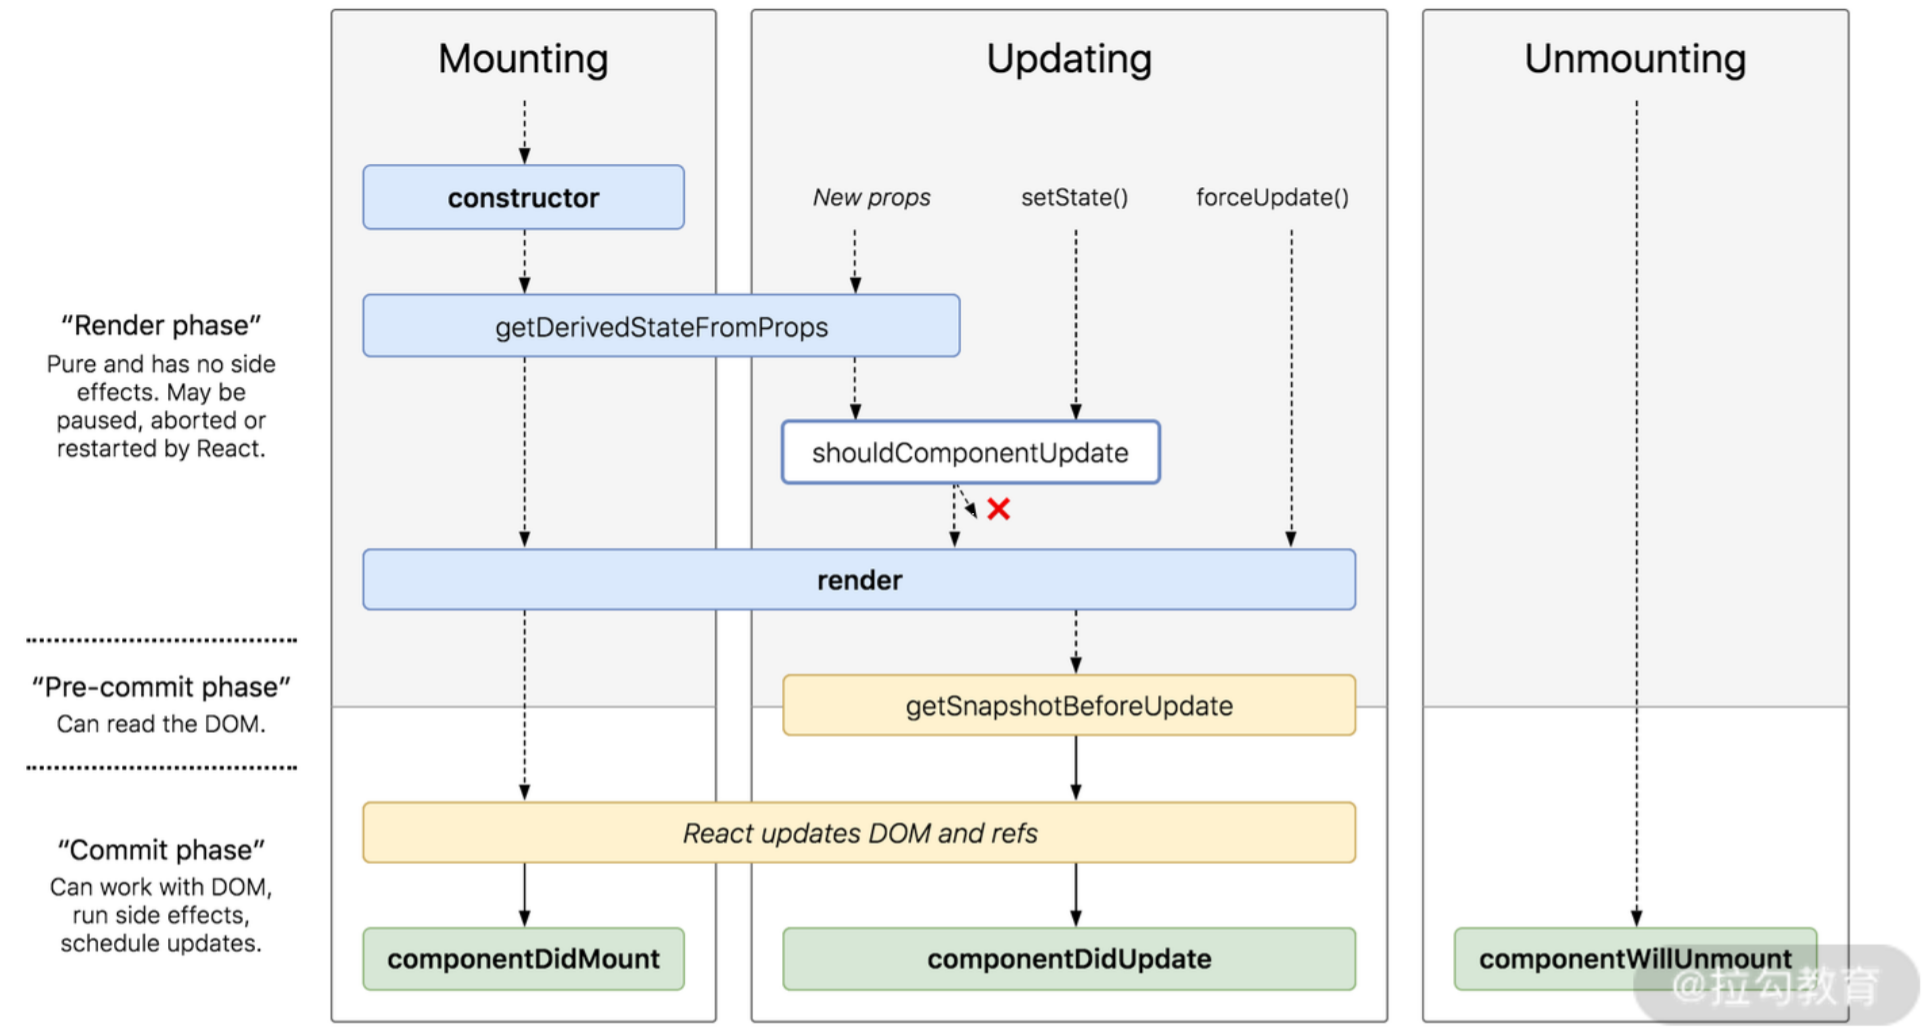
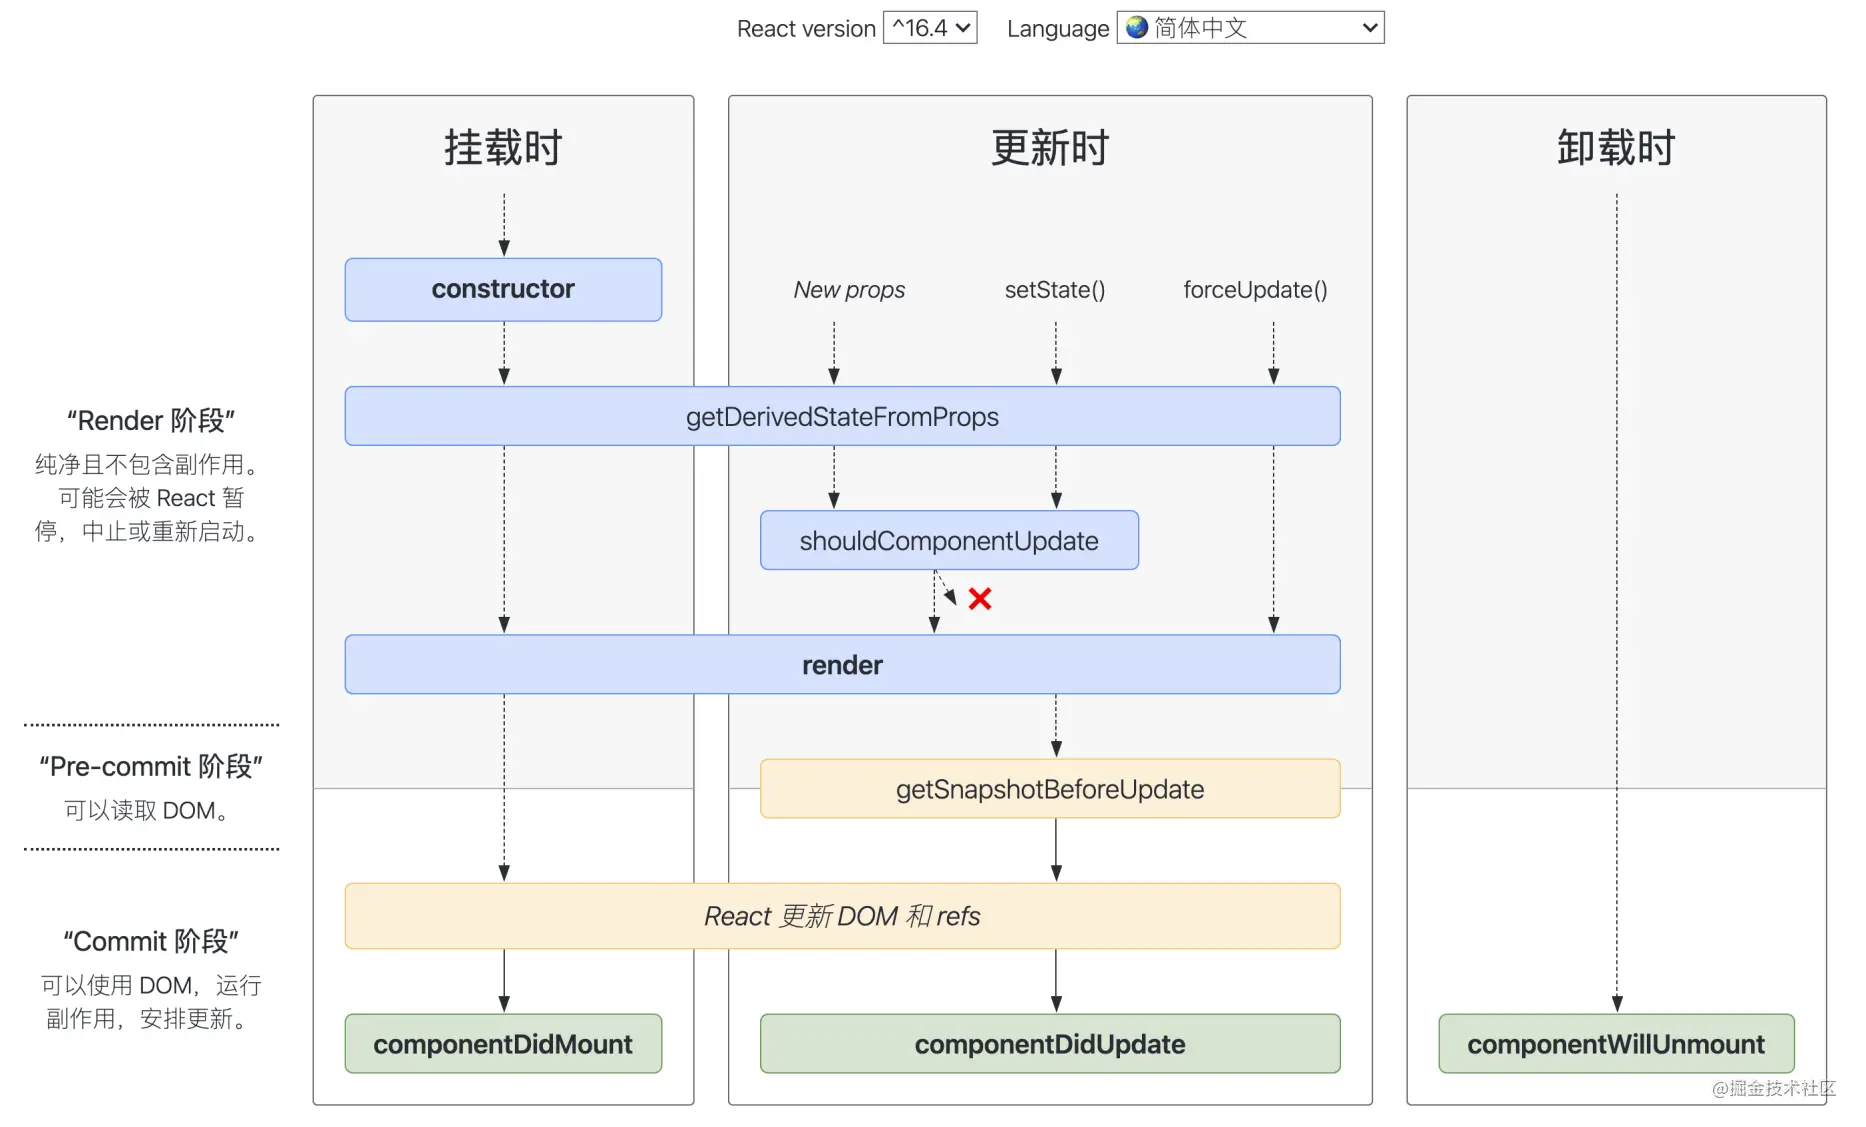
docs(react): 生命周期

Changed region(s): [[0.0, 0.0, 0.9946, 1.0], [0.5284, 0.2478, 0.5906, 0.2788], [0.5284, 0.1859, 0.5906, 0.2168]]

diff --git a/docs/pages/folder1/react.md b/docs/pages/folder1/react.md
@@ -907,13 +907,104 @@ static getDerivedStateFromProps(nextProps, prevState) {
 
 ## React 题目三、生命周期
 
-- React 的生命周期有哪些？
-- React 废弃了哪些生命周期？为什么？
-- React 16.X 中 props 改变后在哪个生命周期中处理
-- React 性能优化在哪个生命周期？它优化的原理是什么？
-- state 和 props 触发更新的生命周期分别有什么区别？
-- React 中发起网络请求应该在哪个生命周期中进行？为什么？
-- React 16 中新生命周期有哪些
+### React 的生命周期有哪些？
+
+![](./img/react-16-life.png)
+生命周期可分为三个阶段：挂载阶段、更新阶段、卸载阶段
+
+- 挂载阶段：完成组件第一次渲染，只发生一次
+  - 顺序：`constructor()`->`getDerivedStateFromProps()`->`render()`-`>componentDidMount()`
+  - `constructor`：初始化 state，事件处理方法绑定 this
+  - `getDerivedStateFromProps(nextProps,prevState)`
+    - 静态方法，里面访问不到 this
+    - 接收参数，props（父组件的新 props） 和 state（当前自身的 state）
+    - 函数需要返回一个对象用于将派生 state，不需要更新则返回 null
+  - `render`：返回要渲染的内容（原生 DOM、React 组件、字符串、null 等），是每个组件必须的一个方法
+  - `componentDidMount`：插入 DOM 树后调用，常用于发送请求、操作 DOM、添加订阅
+- 更新阶段：当组件 props 改变或调用 setState 会触发，可发生多次
+  - 顺序：`getDerivedStateFromProps()`->`shouldComponentUpdate()`->`render()`->`getSnapshotBeforeUpdate()`->`componentDidUpdate()`
+  - `shouldComponentUpdate(nextProps,nextState)`：在父组件更新，所有子组件都会重新渲染，可利用这个阻止子组件重新渲染。可以比较 this.props 和 nextProps ，this.state 和 nextState 值是否变化，来确认返回 true 或者 false。当返回 false 时，组件就停止更新过程，后面的 render、componentDidUpdate 也不会被调用。
+  - `getSnapshotBeforeUpdate(prevProps, prevState)`
+    - 在 render 方法之后，在真实 DOM 更新前
+    - 要和 componentDidUpdate 配合使用，函数的 return 返回值传给 DidUpdate()的第三个参数，默认为 null
+  - `componentDidUpdate(prevProps, prevState, snapshot)`：组件更新完成后调用，一般用于操作 DOM，发请求。
+- 卸载阶段：组件销毁之前调用
+  - 顺序：`componentWillUnmount()`
+  - 作用：一般用来取消订阅、清除计时器等
+  - 注意：不要在这里 setState 了
+- 错误处理阶段：
+  - 顺序：`componentDidCatch(error, info)`
+  - 后代组件抛出错误时调用，error 是错误信息，info 是堆栈信息
+
+React 16 的⽣命周期被划分为了 render 和 commit 两个阶段，⽽ commit 阶段⼜被细分为
+了 pre-commit 和 commit。**render 阶段在执⾏过程中允许被打断（Fiber 的作用）**，⽽ commit 阶段则总是同步执⾏的。
+
+- render 阶段：计算状态信息，可能会被 React 暂停、终⽌或重新启动。
+- pre-commit 阶段：还没最终更新到真实 DOM，但可以读取 DOM。
+- commit 阶段：真正完成真实 DOM 更新，可以使⽤ DOM，运⾏副作⽤。
+
+### React 新增/废弃了哪些生命周期？为什么？
+
+- 新增
+  - getDerivedStateFromProps
+  - getSnapshotBeforeUpdate
+  - getDerivedStateFromError
+- 废弃 will 之类的
+  - componentWillMount
+  - componentWillReceiveProps
+  - componentWillUpdate
+
+废弃这三个函数的原因：fiber 的出现，高优先级任务会打断当前任务，导致被执行多次。而且避免开发者滥用生命周期，导致不好维护。
+
+- componentWillMount：初始化可以在 constructor 里操作，还有有些开发者会把异步请求放这里，其实错误，并不能提高获取结果的速度，放在 componentDidMount 就可以。
+- componentWillReceiveProps：可用 getDerivedStateFromProps 代替，只能根据新 props 对比前 state，来派生新的 state，不能访问 this，写不出副作用的代码
+- componentWillUpdate：可用 getSnapshotBeforeUpdate 替换，获取 render 前的 DOM 元素状态，保证和 componentDidUpdate 的状态保持一致
+
+### React 16.X 中 props 改变后在哪个生命周期中处理
+
+getDerivedStateFromProps
+
+- 根据新的 props 和组件自身的旧 state 来映射新 state
+- 如果 props 不影响 state，则返回 null
+
+```js
+static getDerivedStateFromProps(nextProps, prevState) {
+    const {type} = nextProps;
+    // 当传入的type发生变化的时候，更新state
+    if (type !== prevState.type) {
+        return {
+            type,
+        };
+    }
+    // 否则，对于state不进行任何操作
+    return null;
+}
+
+```
+
+### React 性能优化在哪个生命周期？它优化的原理是什么？
+
+- 父组件 render 会导致子组件重新渲染，有时候子组件不需要更新，导致影响性能。
+- 可进行优化的生命周期：shouldComponentUpdate
+
+  - 拿当前 props 中值和下一次 props 中的值进行对比，数据相等时，返回 false，反之返回 true。
+  - 是浅比较
+
+  ```js
+  shouldComponentUpdate(nextProps) {
+      if (this.props.num === nextProps.num) {
+          return false
+      }
+      return true;
+  }
+  ```
+
+### state 和 props 触发更新的生命周期分别有什么区别？
+
+### React 中发起网络请求应该在哪个生命周期中进行？为什么？
+
+- 异步请求，最好放在 componentDidMount 中去操作，componentDidMount 方法中的代码，是在组件已经完全挂载到网页上才会调用被执行，所以可以保证数据的加载。此外，在这方法中调用 setState 方法，会触发重新渲染。
+- react16.0 以后，componentWillMount 可能会因为中断任务被执行多次。
 
 ## React 题目四、组件通信
 

diff --git a/docs/pages/folder1/writeapi.md b/docs/pages/folder1/writeapi.md
@@ -336,7 +336,7 @@ joe.apply2(test, ["joe", 25]);
 - 简洁写法
 
 ```js
-Function.prototype.bind2 = function (context, ...args) {
+Function.prototype.bind2 = function (context = window, ...args) {
   const fn = this;
   const newFun = function () {
     const newArgs = args.concat([...arguments]);
